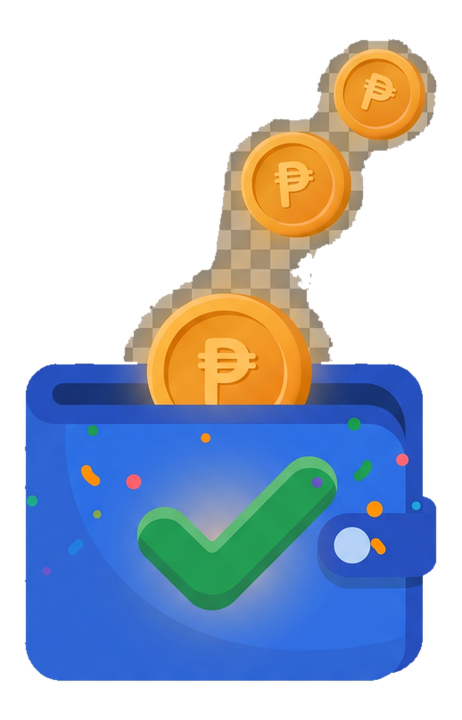
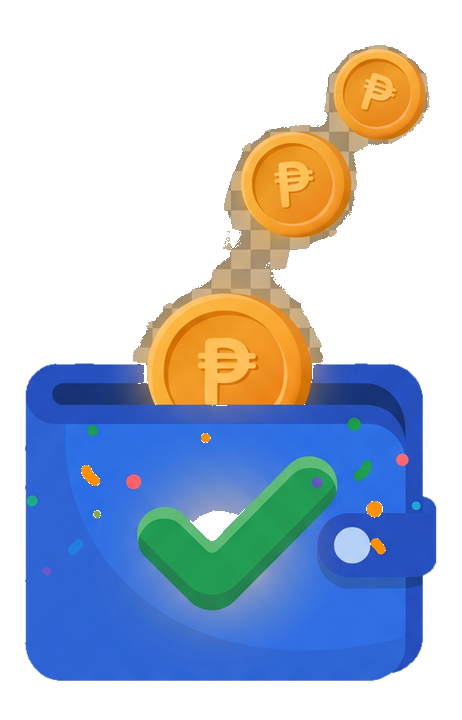
fix(runner): verification gating, go-online toast, drop checkerboard art
- Gate runners missing required docs (Government ID + Selfie) to onboarding before Home; approved runners pass; never trap on a loader while docs load.
- Go-online button stays pressable when unverified and shows 'You're not verified yet' (was a silent dead button); remove the onboarding 'Skip for now' bypass so upload is mandatory.
- Remove two illustrations exported with a baked-in transparency checkerboard (runner-no-jobs, runner-earnings-empty); reuse runner-offline for home/history idle, text-only for earnings/payout empties; swap in a cleaned runner-payout-success.

diff --git a/errandguy-mobile/src/app/(runner)/(tabs)/index.tsx b/errandguy-mobile/src/app/(runner)/(tabs)/index.tsx
@@ -449,16 +449,20 @@ export default function RunnerHomeScreen() {
 
     if (value) {
       const cachedProfile = profileQ.data ?? runnerProfile;
+      // Unverified runners can't go online. The power button is styled locked
+      // but kept pressable so this tap can explain WHY \u2014 a dead button explains
+      // nothing (the reported bug). Only blocks going ONLINE; offline is fine.
+      if ((cachedProfile?.verification_status ?? 'pending') !== 'approved') {
+        Haptics.notificationAsync(Haptics.NotificationFeedbackType.Warning).catch(() => {});
+        toast.warning("You\u2019re not verified yet. Finish verification before going online.");
+        router.push('/(runner)/settings/documents' as any);
+        return;
+      }
       if (cachedProfile && (!cachedProfile.preferred_types || cachedProfile.preferred_types.length === 0)) {
         toast.warning(
           'Pick at least one errand type you\u2019d like to receive before going online.',
         );
         router.push('/(runner)/settings/preferred-types' as any);
-        return;
-      }
-      if (cachedProfile && cachedProfile.verification_status && cachedProfile.verification_status !== 'approved') {
-        toast.warning('Finish account verification before going online.');
-        router.push('/(runner)/settings/documents' as any);
         return;
       }
     }
@@ -803,10 +807,10 @@ export default function RunnerHomeScreen() {
                       ) : null}
                       <Pressable
                         onPress={() => handleToggleOnline(!isOnline)}
-                        disabled={togglingOnline || !canGoOnline}
+                        disabled={togglingOnline}
                         hitSlop={10}
                         accessibilityRole="button"
-                        accessibilityState={{ disabled: !canGoOnline, busy: togglingOnline }}
+                        accessibilityState={{ busy: togglingOnline }}
                         accessibilityLabel={
                           !canGoOnline
                             ? 'Verification required'
@@ -1056,7 +1060,7 @@ export default function RunnerHomeScreen() {
         {canGoOnline && !activeErrand && (!isOnline || negotiateOffers.length === 0) && (
           <View className="px-5 pt-8 items-center">
             <Illustration
-              name={isOnline ? 'runner-no-jobs' : 'runner-offline'}
+              name="runner-offline"
               size={180}
             />
             <Text className="text-[15px] font-montserrat-bold text-textPrimary mt-4">

diff --git a/errandguy-mobile/src/app/(runner)/_layout.tsx b/errandguy-mobile/src/app/(runner)/_layout.tsx
@@ -6,6 +6,13 @@ import { useAuthStore } from '../../stores/authStore';
 import { useRealtimeNotifications } from '../../hooks/useRealtimeNotifications';
 import { STACK_ANIMATION } from '../../constants/navigation';
 
+// The two documents a runner MUST upload before using the app — mirrors the
+// `required: true` entries of REQUIRED_DOCUMENTS in onboarding.tsx (keep in
+// sync). A type counts only when a doc of that type exists and isn't rejected,
+// matching onboarding's isDocComplete — so a rejected runner is sent back to
+// re-upload.
+const REQUIRED_RUNNER_DOC_TYPES = ['government_id', 'selfie'] as const;
+
 export default function RunnerLayout() {
   const isAuthenticated = useAuthStore((s) => s.isAuthenticated);
   const role = useAuthStore((s) => s.role);
@@ -33,13 +40,32 @@ export default function RunnerLayout() {
     // status (pending / approved / rejected / resubmit) \u2014 has already
     // completed signup; they belong on the tabs, where the verification
     // banner will surface any required action.
+    // Verification gate. The backend auto-creates a bare runner_profile
+    // (verification_status 'pending', zero documents) the instant an account
+    // becomes a runner, so "has a profile" never proves signup is done. Force
+    // runners to the document-upload (onboarding) screen until the two required
+    // documents are uploaded and not rejected; approved runners always pass.
+    // `documents` rides only on the GET /user/profile payload (not the
+    // login/OTP response) — while it hasn't loaded we let the runner through
+    // rather than trap them on a spinner; validateSession refetches the full
+    // profile and this effect re-runs once documents arrive, redirecting then
+    // if still incomplete.
     const isOnboarding = segments.includes('onboarding' as never);
-    const skipped = useAuthStore.getState().runnerOnboardingSkipped;
-    if (!isOnboarding && !skipped) {
+    if (!isOnboarding) {
       const profile = user?.runner_profile;
       if (!profile) {
         router.replace('/(runner)/onboarding');
         return;
+      }
+      const docs = profile.documents;
+      if (profile.verification_status !== 'approved' && Array.isArray(docs)) {
+        const hasRequiredDocs = REQUIRED_RUNNER_DOC_TYPES.every((type) =>
+          docs.some((d) => d.document_type === type && d.status !== 'rejected'),
+        );
+        if (!hasRequiredDocs) {
+          router.replace('/(runner)/onboarding');
+          return;
+        }
       }
     }
 

diff --git a/errandguy-mobile/src/app/(runner)/onboarding.tsx b/errandguy-mobile/src/app/(runner)/onboarding.tsx
@@ -111,9 +111,6 @@ export default function RunnerOnboardingScreen() {
   const setUser = useAuthStore((s) => s.setUser);
   const { setRunnerProfile } = useRunnerStore();
   const { logout } = useAuth();
-  const setRunnerOnboardingSkipped = useAuthStore(
-    (s) => s.setRunnerOnboardingSkipped,
-  );
 
   const [documents, setDocuments] = useState<RunnerDocument[]>([]);
   const [uploading, setUploading] = useState<string | null>(null);
@@ -388,16 +385,11 @@ export default function RunnerOnboardingScreen() {
     router.replace('/(auth)/welcome');
   }, [logout, router]);
 
-  const handleSkip = useCallback(async () => {
-    Haptics.impactAsync(Haptics.ImpactFeedbackStyle.Light).catch(() => {});
-    await setRunnerOnboardingSkipped(true);
-    router.replace('/(runner)/(tabs)');
-  }, [setRunnerOnboardingSkipped, router]);
-
   return (
     <SafeAreaView className="flex-1 bg-background">
-      {/* Top bar with logout. Skip lives only at the bottom (single,
-          clearly-labeled affordance) so it never competes with Continue. */}
+      {/* Top bar with logout. Document upload is mandatory — there is no
+          skip; the only exits are Continue (enabled once required docs are
+          uploaded) or Log out. */}
       <View className="flex-row items-center justify-end px-5 pt-2">
         <Pressable
           onPress={handleLogout}
@@ -544,18 +536,6 @@ export default function RunnerOnboardingScreen() {
                 disabled={!requiredUploaded}
                 onPress={handleContinue}
               />
-              {!requiredUploaded && (
-                <Pressable
-                  className="mt-3 py-3 items-center"
-                  onPress={handleSkip}
-                  accessibilityRole="button"
-                  accessibilityLabel="Skip for now"
-                >
-                  <Text className="text-sm font-montserrat text-textTertiary">
-                    Skip for now
-                  </Text>
-                </Pressable>
-              )}
             </View>
           </>
         )}

diff --git a/errandguy-mobile/src/components/ui/Illustration.tsx b/errandguy-mobile/src/components/ui/Illustration.tsx
@@ -45,8 +45,6 @@ const SOURCES = {
   'runner-onboarding': require('../../../assets/illustrations/runner-onboarding.png'),
   'runner-verify': require('../../../assets/illustrations/runner-verify.png'),
   'runner-offline': require('../../../assets/illustrations/runner-offline.png'),
-  'runner-no-jobs': require('../../../assets/illustrations/runner-no-jobs.png'),
-  'runner-earnings-empty': require('../../../assets/illustrations/runner-earnings-empty.png'),
   'runner-payout-success': require('../../../assets/illustrations/runner-payout-success.png'),
   'runner-rated': require('../../../assets/illustrations/runner-rated.png'),
   // 3D hero objects

diff --git a/errandguy-mobile/src/app/(runner)/payout/index.tsx b/errandguy-mobile/src/app/(runner)/payout/index.tsx
@@ -448,7 +448,6 @@ export default function PayoutScreen() {
           ) : recentPayouts.length === 0 ? (
             <Card className="p-0">
               <RunnerEmptyState
-                illustration={<Illustration name="runner-earnings-empty" size={168} />}
                 eyebrow="Payouts"
                 title="No payouts yet"
                 description={`Request your first payout once you've earned ${formatCurrency(MIN_PAYOUT)}.`}

diff --git a/errandguy-mobile/src/app/(runner)/(tabs)/earnings.tsx b/errandguy-mobile/src/app/(runner)/(tabs)/earnings.tsx
@@ -571,7 +571,6 @@ export default function EarningsScreen() {
             />
           ) : earningsList.length === 0 ? (
             <RunnerEmptyState
-              illustration={<Illustration name="runner-earnings-empty" size={168} />}
               eyebrow="This period"
               title="No earnings yet"
               description="Completed errands for this period will show up here."

diff --git a/errandguy-mobile/src/app/(runner)/(tabs)/history.tsx b/errandguy-mobile/src/app/(runner)/(tabs)/history.tsx
@@ -374,7 +374,7 @@ export default function HistoryScreen() {
             />
           ) : (
             <RunnerEmptyState
-              illustration={<Illustration name="runner-no-jobs" size={168} />}
+              illustration={<Illustration name="runner-offline" size={168} />}
               eyebrow="No history yet"
               title={
                 statusFilter === 'completed'
